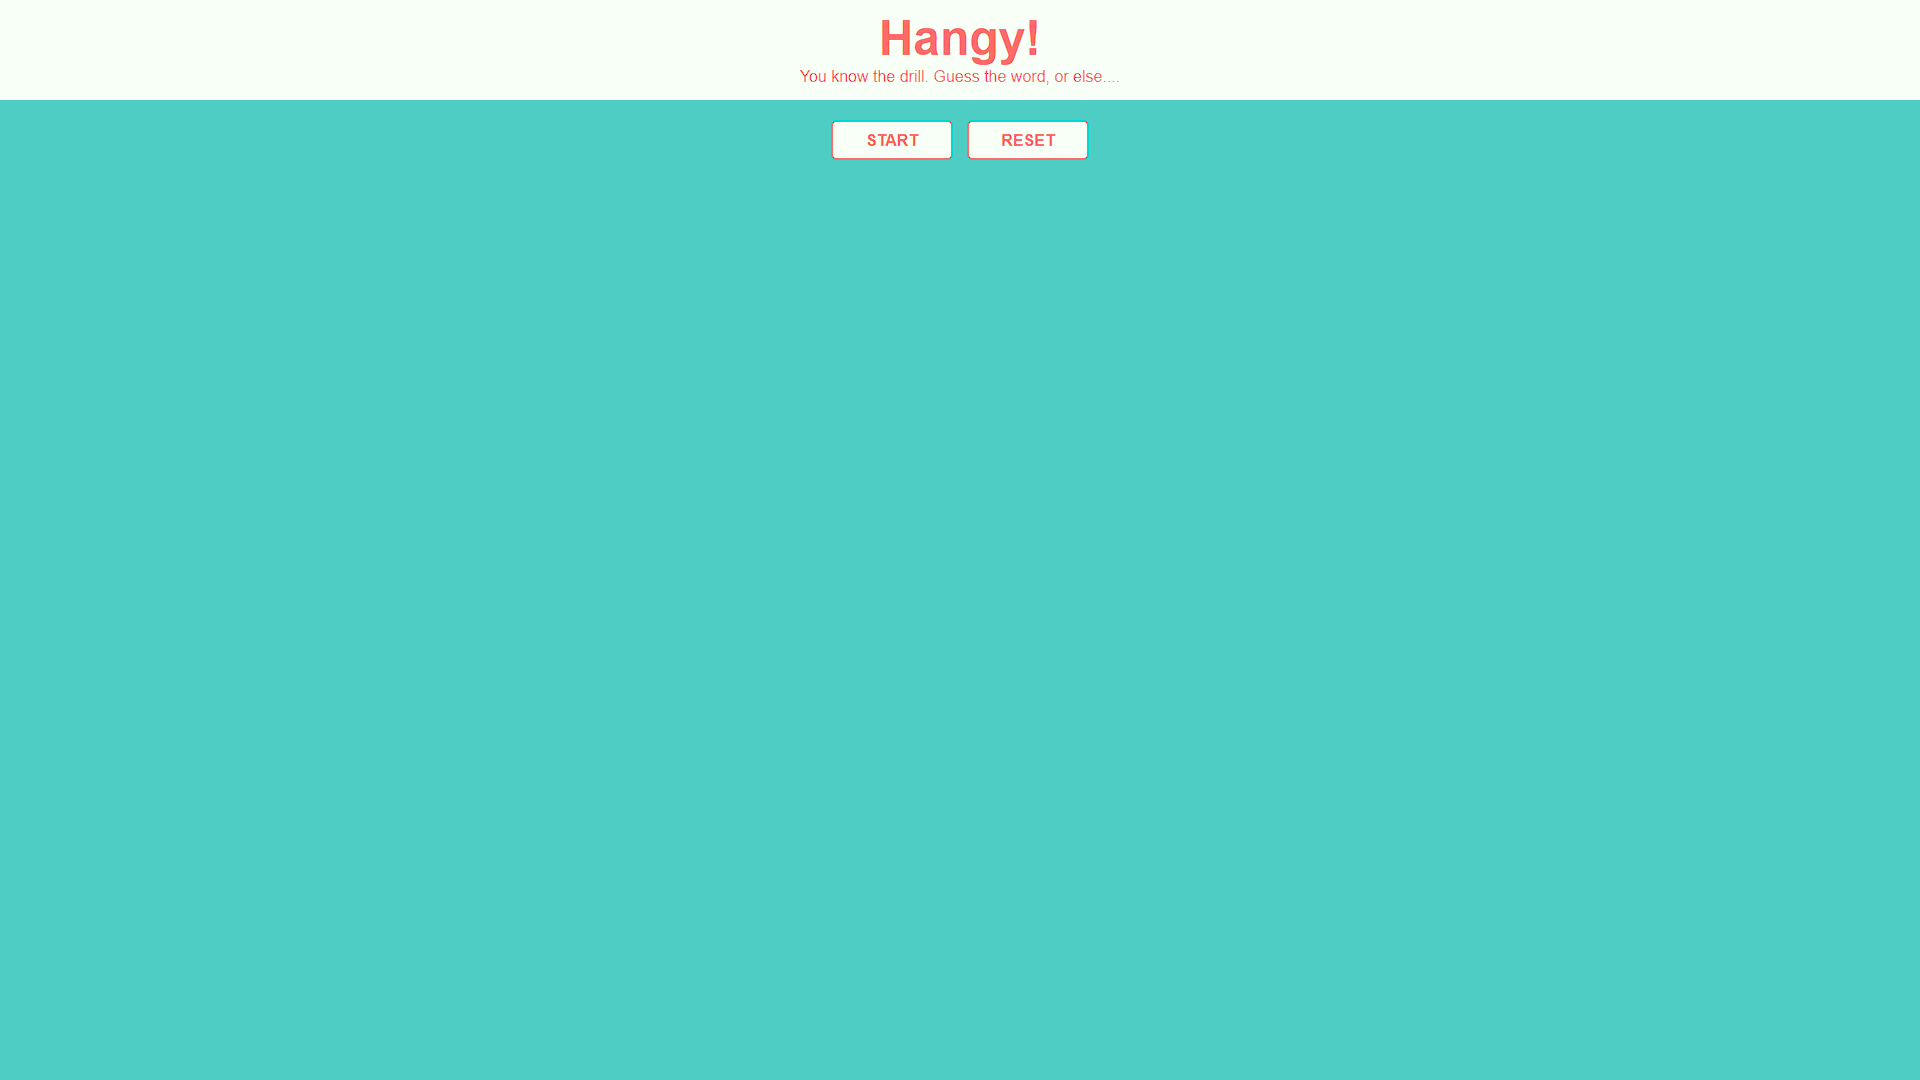
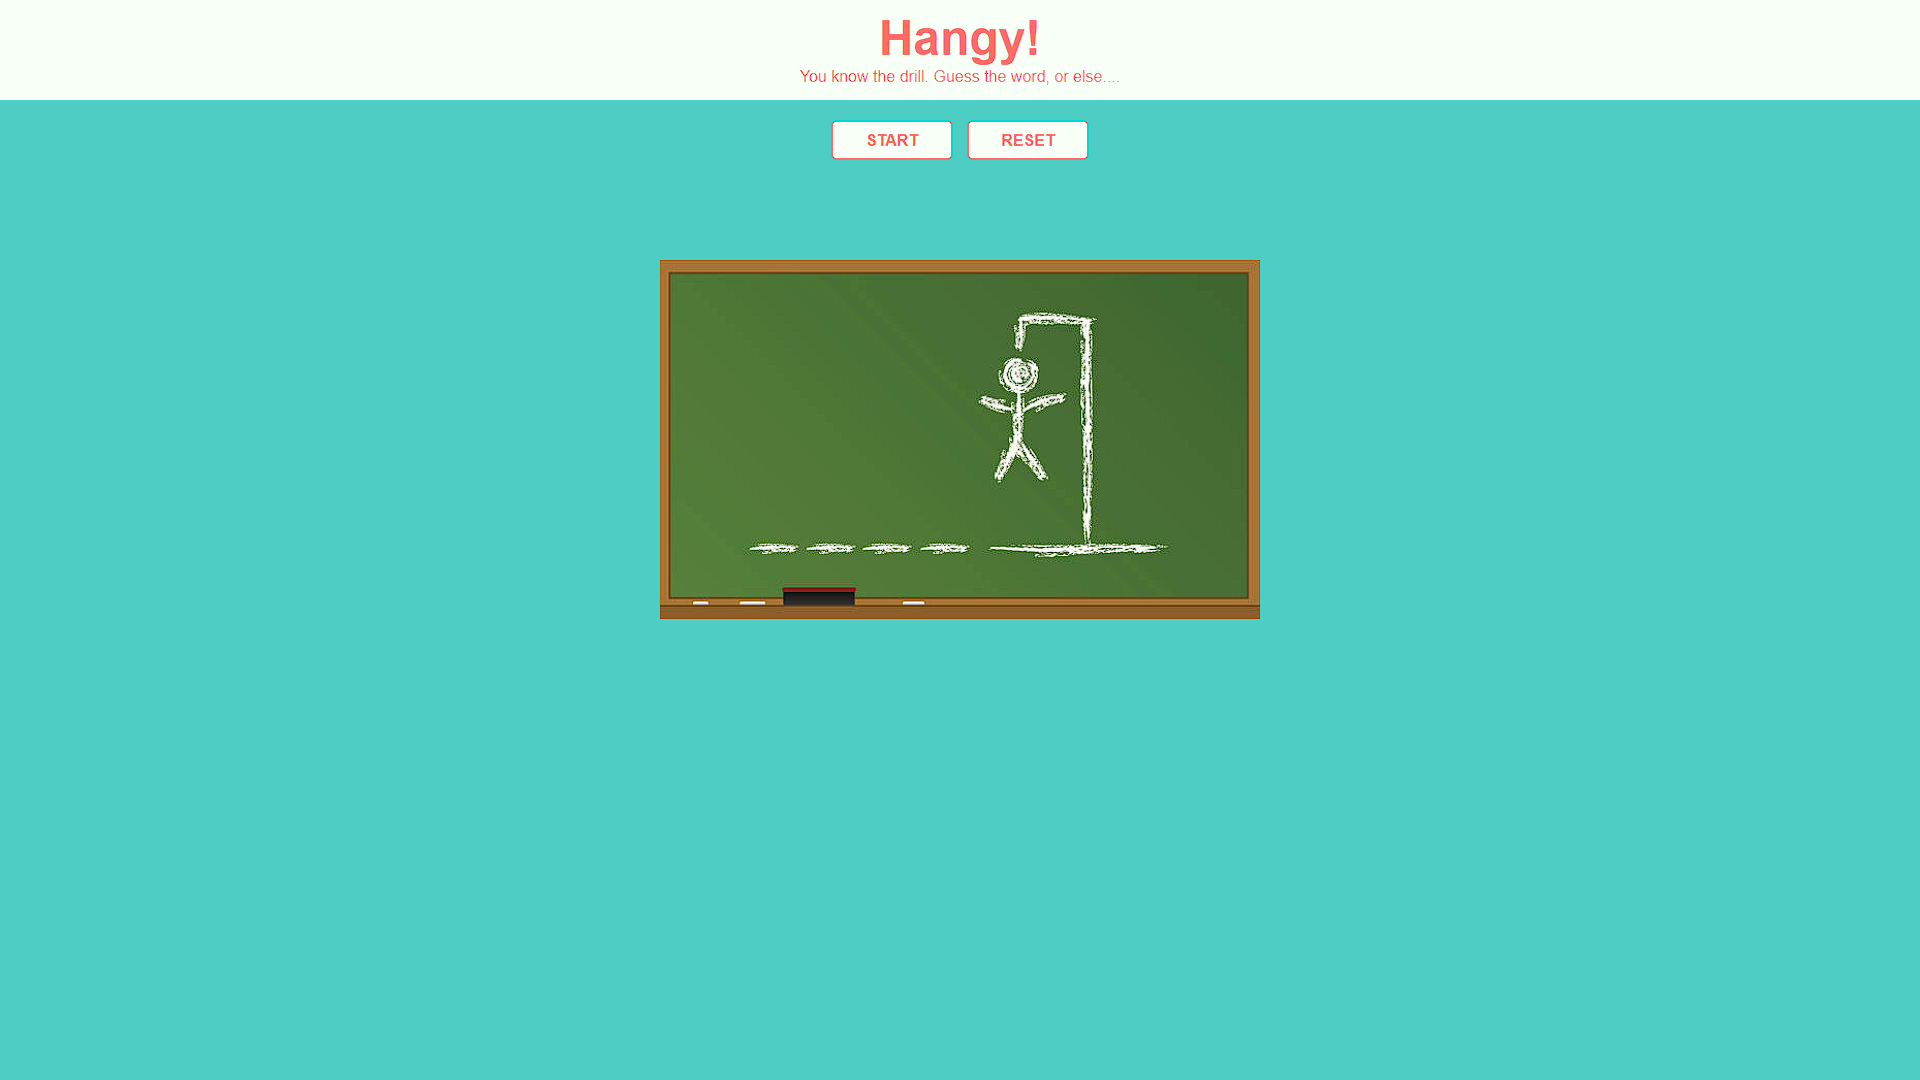
fixed main

Changed region(s): [[0.3438, 0.2139, 0.6562, 0.5806]]

diff --git a/src/components/App.js b/src/components/App.js
@@ -10,6 +10,7 @@ import GameOverModal from "./GameOverModal";
 
 import { colors, contentWidth } from "./GlobalStyles";
 import words from "../data/words.json";
+import main from "../images/main.png";
 
 const initialGameState = { started: false, over: false, win: false };
 const App = () => {
@@ -88,6 +89,7 @@ const App = () => {
         <Button onClickFunc={handleStart}>{status}</Button>
         <Button onClickFunc={handleReset}>Reset</Button>
       </Nav>
+      <Img src={main} alt="" />
       {game.started && (
         <>
           <Container>
@@ -105,6 +107,9 @@ const App = () => {
 };
 
 const Wrapper = styled.div`
+  display: flex;
+  flex-direction: column;
+  align-items: center;
   background-color: ${colors.blue};
   color: #fff;
   font-family: Arial, Helvetica, sans-serif;
@@ -139,6 +144,12 @@ const RightColumn = styled.div`
   flex-direction: column;
   justify-content: space-between;
   padding: 20px;
+`;
+
+const Img = styled.img`
+  width: 600px;
+  max-width: 50%;
+  padding-top: 5rem;
 `;
 
 export default App;
